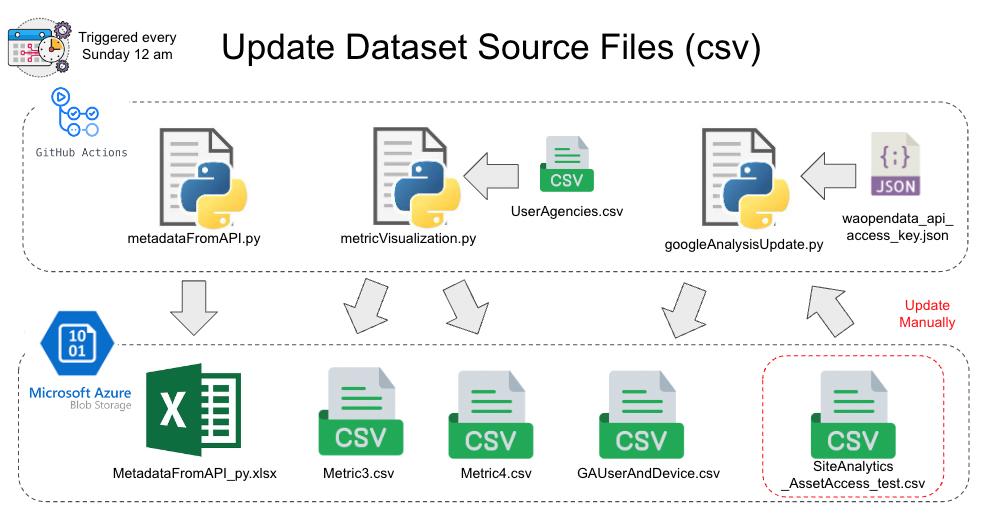
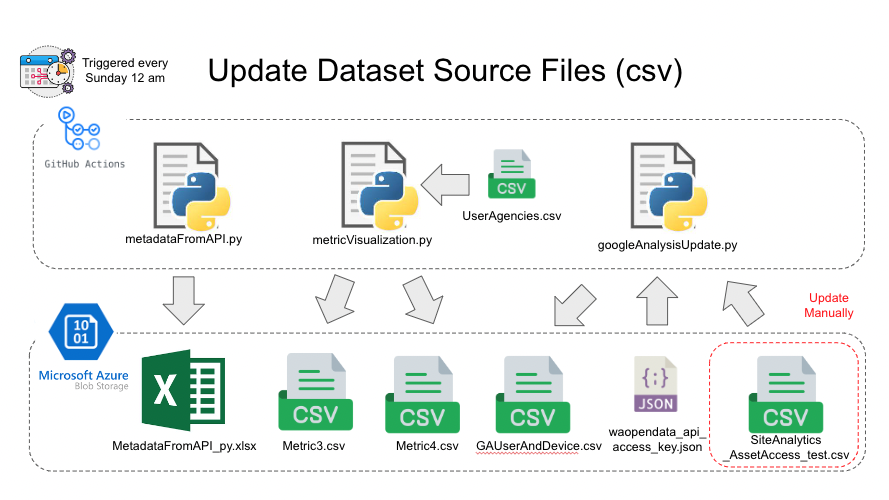
update README

Changed region(s): [[0.0304, 0.24, 0.9719, 0.96], [0.2126, 0.06, 0.7897, 0.18], [0.0, 0.03, 0.1822, 0.36]]

diff --git a/README.md b/README.md
@@ -13,7 +13,7 @@ This Documentation will guide you on how to set up the automation pipeline to up
 ### Update CSV
 
 ***Prerequisites*** <br/>
-You need to have the SiteAnalytics_AssetAccess_test.csv file under the destination Azure Blob Storage container.
+You need to have the SiteAnalytics_AssetAccess_test.csv and waopendata_api_access_key.json files under the destination Azure Blob Storage container.
 
 1. Execute metadataFromAPI.py to retrieve the latest Metadata and generate an excel file (MetadataFromAPI_py.xlsx) to Azure data storage.
 2. Execute metricVisualization.py, which will generate two new csv files (Metric3.csv and Metric4.csv) and also update the one in Azure.
@@ -23,7 +23,7 @@ You need to have the SiteAnalytics_AssetAccess_test.csv file under the destinati
 | ------------------ | ------------- | --------------------- |
 | metadataFromAPI.py | MetadataFromAPI_py.xslx | N/A |
 | metricVisualization.py | Metrics3.csv <br/> Metrics4.csv | UserAgencies.csv (on GitHub) |
-| googleAnalysisUpdate.py | GAUserAndDevice.csv | waopendata_api_access_key.json (on GitHub) <br/> SiteAnalytics_AssetAccess_test.csv (on Azure Blob Storage) |
+| googleAnalysisUpdate.py | GAUserAndDevice.csv | waopendata_api_access_key.json (on Azure Blob Storage) <br/> SiteAnalytics_AssetAccess_test.csv (on Azure Blob Storage) |
 
 ### Update Dataset
 
